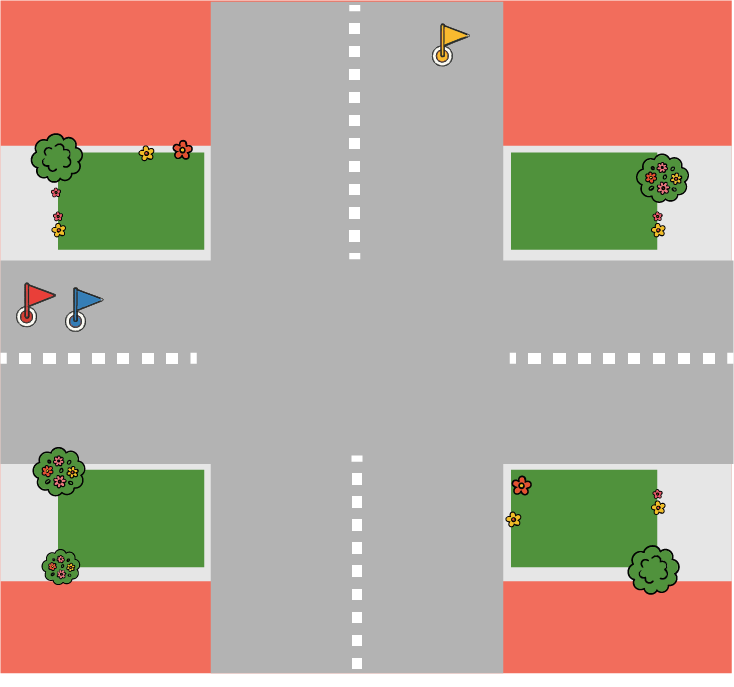
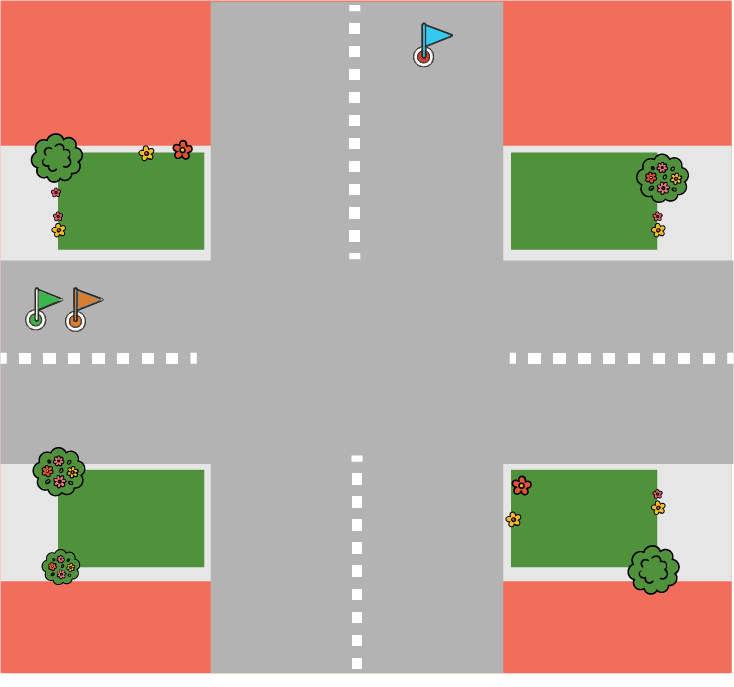
Align destination circles to flags (levels 4-8) + recolor level 2 (orange/turquoise/green)
- Detected actual flag positions in each background and fixed endpoint coords so
  the pulsing destination circles sit exactly on the flags (levels 4,5,6,7,8)
- Level 2: new background/solution with orange, turquoise, green cars
  - rotated turqize/orange sprites to vertical front-up orientation
  - added orange/green/turquoise textures + ring colors + admin dropdown options
  - kept all positions/paths identical, only colors changed, endpoints aligned to new flags

Changed region(s): [[0.0, 0.3974, 0.1499, 0.4891], [0.5395, 0.0306, 0.6294, 0.1223]]

diff --git a/index.html b/index.html
@@ -1174,6 +1174,9 @@
             this.load.image('blue',   'images/blue.png');
             this.load.image('yellow', 'images/yellow.png');
             this.load.image('grey',   'images/grey.png');
+            this.load.image('orange',    'images/orange.png');
+            this.load.image('green',     'images/green.png');
+            this.load.image('turquoise', 'images/turqize.png');
         }
 
         // ==========================================
@@ -1585,7 +1588,7 @@
             }
 
             // Destination circles (correct + wrong destinations both shown - player doesn't know which is right)
-            const carColors = { red: 0xff3333, yellow: 0xffdd00, blue: 0x44aaff, grey: 0xaaaaaa };
+            const carColors = { red: 0xff3333, yellow: 0xffdd00, blue: 0x44aaff, grey: 0xaaaaaa, orange: 0xe8821e, green: 0x3bb34a, turquoise: 0x29c5e6 };
             const solutionDirMap = {};
             levelData.solution.forEach(s => { solutionDirMap[s.color] = s.direction; });
 

diff --git a/admin.html b/admin.html
@@ -1014,6 +1014,9 @@
                             <option value="yellow" ${car.texture === 'yellow' ? 'selected' : ''}>צהוב</option>
                             <option value="blue" ${car.texture === 'blue' ? 'selected' : ''}>כחול</option>
                             <option value="grey" ${car.texture === 'grey' ? 'selected' : ''}>אפור</option>
+                            <option value="orange" ${car.texture === 'orange' ? 'selected' : ''}>כתום</option>
+                            <option value="green" ${car.texture === 'green' ? 'selected' : ''}>ירוק</option>
+                            <option value="turquoise" ${car.texture === 'turquoise' ? 'selected' : ''}>טורקיז</option>
                         </select>
                     </div>
                     <div class="form-group">
